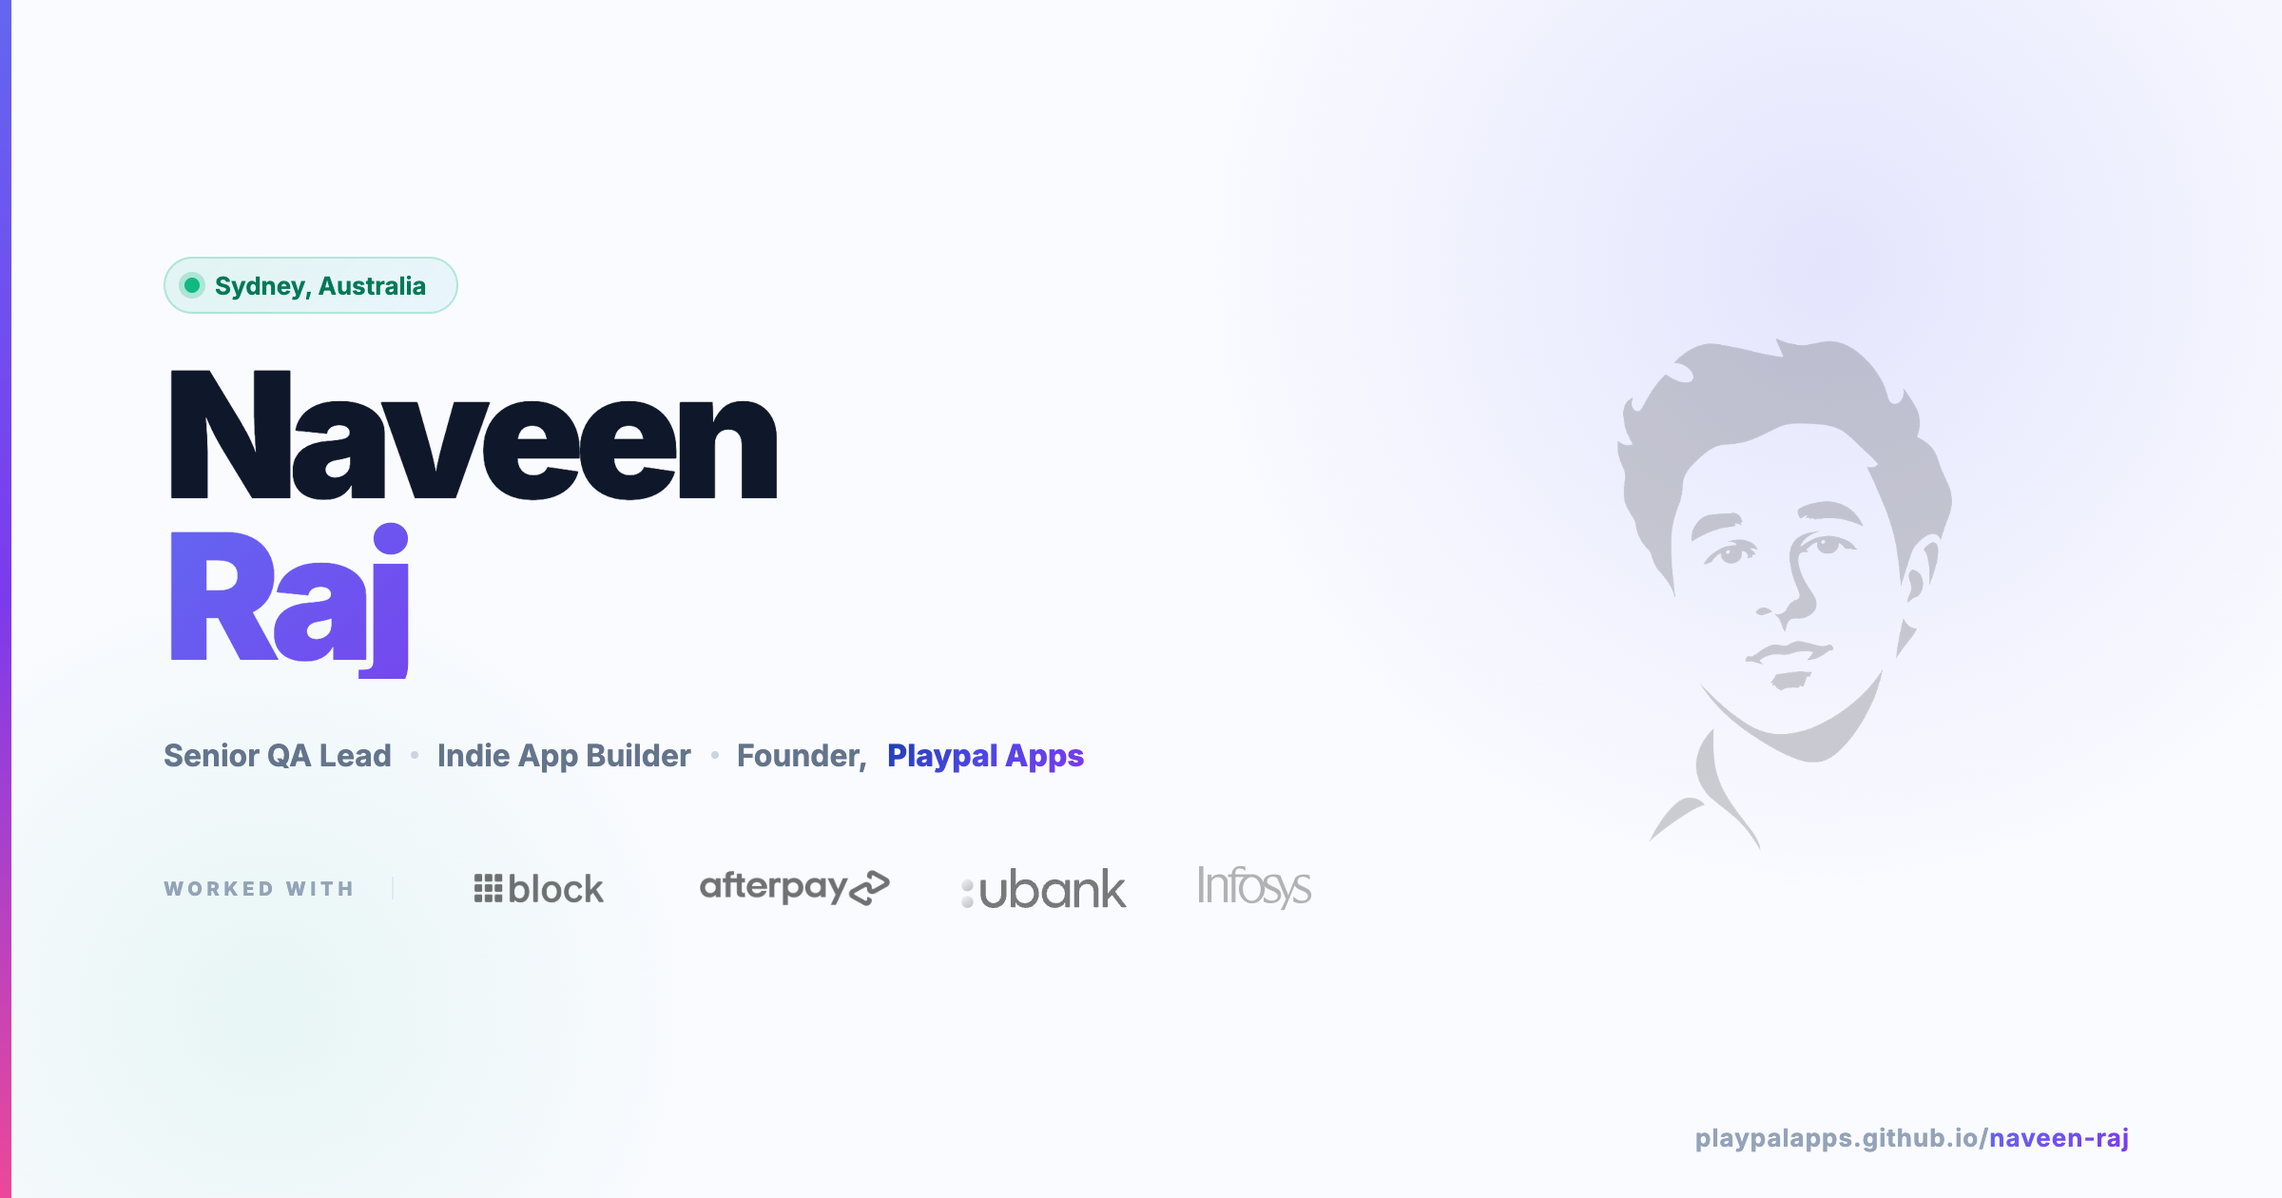
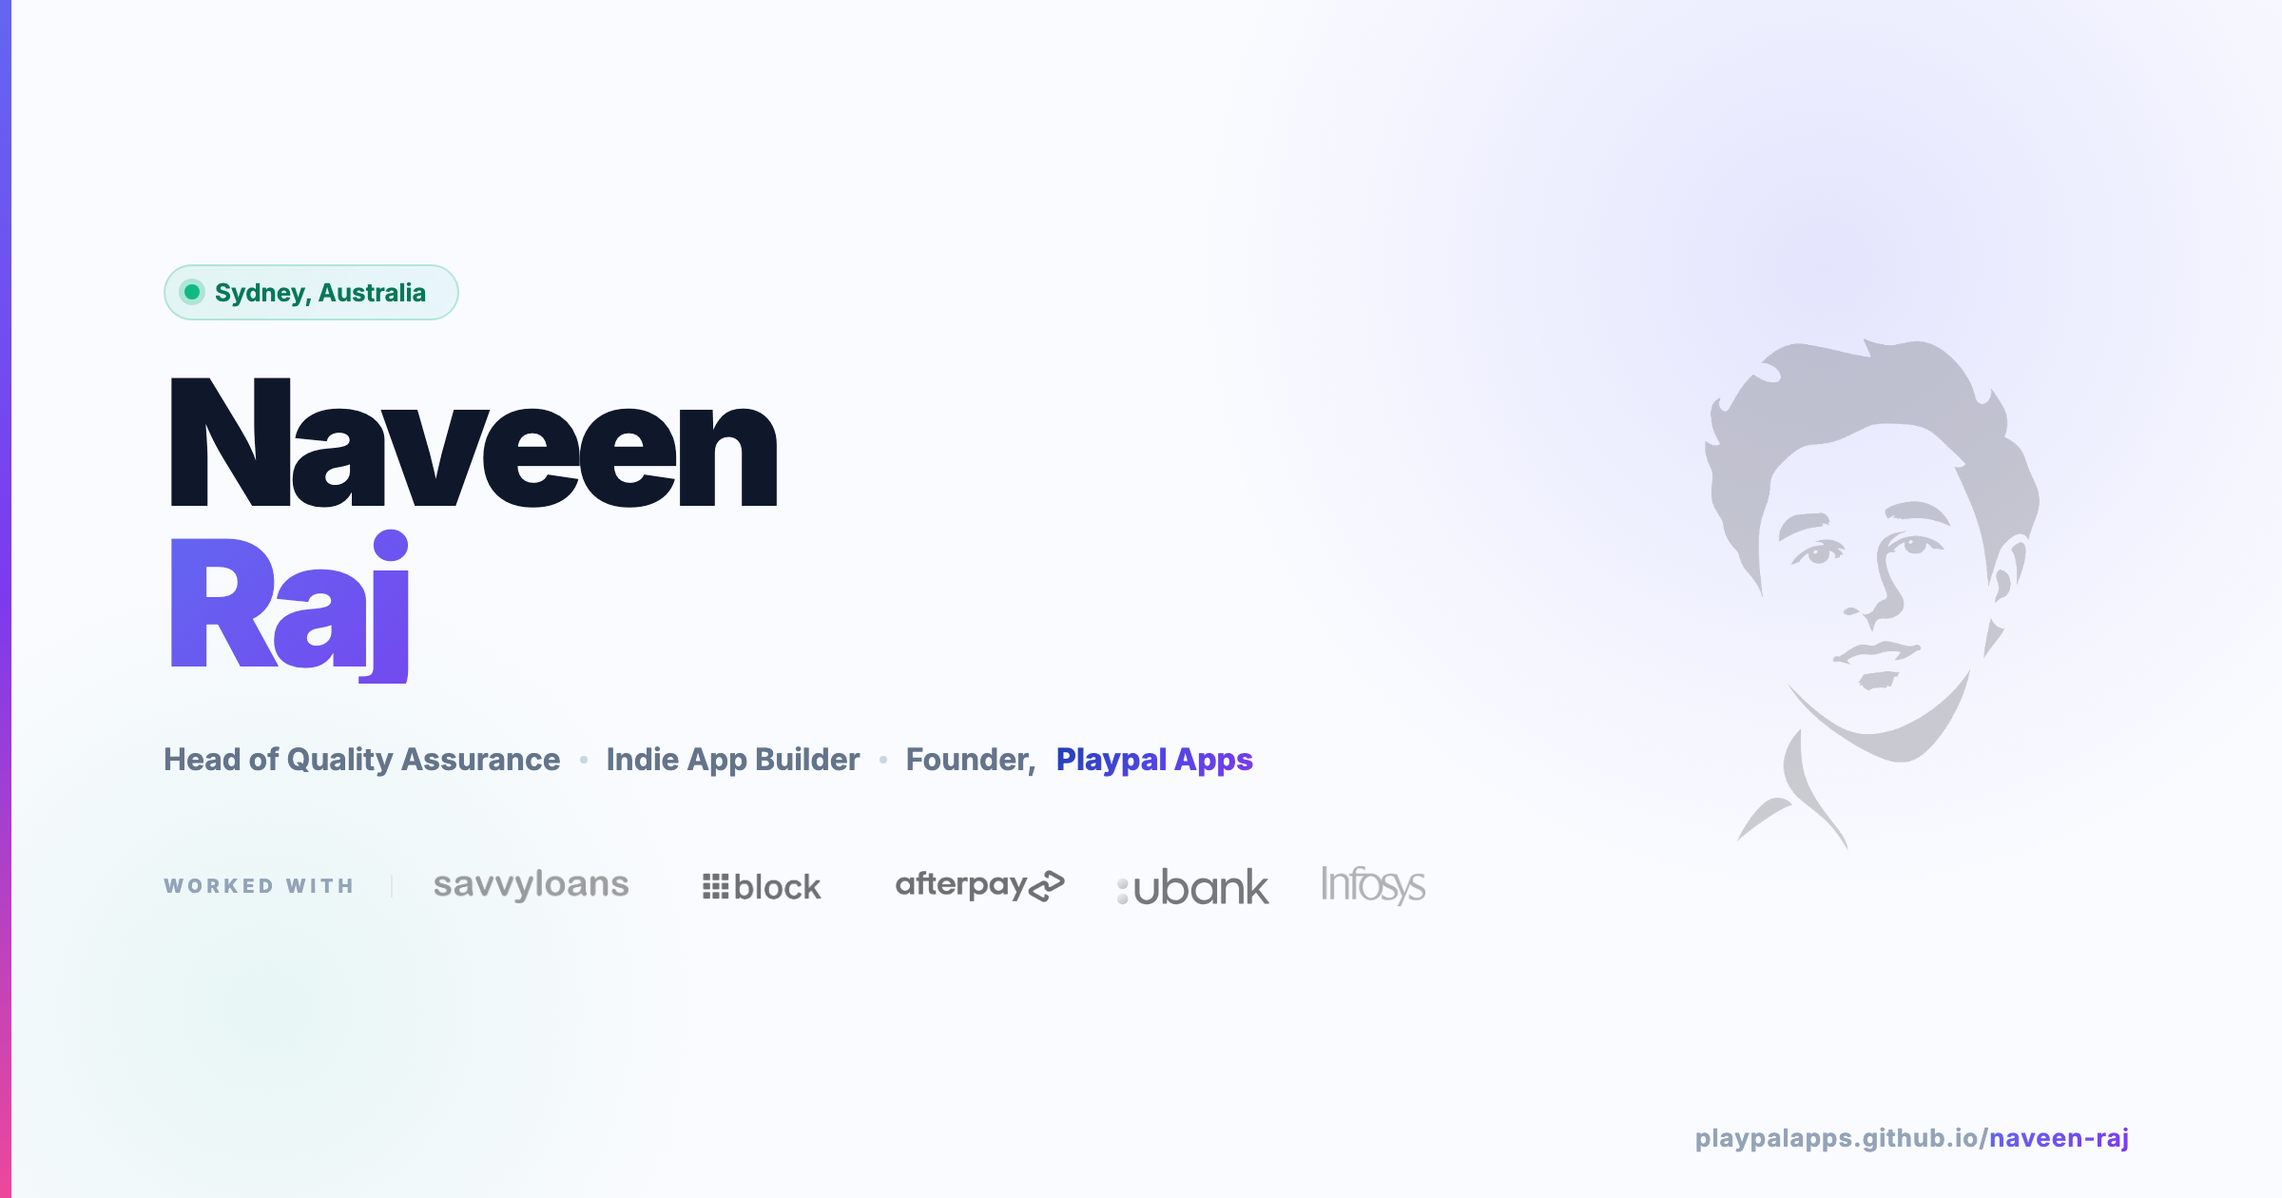
Homepage and Naveen Raj page: bring listings, counts and current role up to date
Homepage
- Section counts corrected to 15 apps and 12 games; a small script now sets
  them from the cards so they cannot drift again
- Icon panel gains Nota, DailyStreak, Gramam and Bloom Blocks; the same script
  appends any card icon the panel is missing
- Builder card: Head of Quality Assurance, Savvy Loans added to Worked with
  (logo strip sized per logo so it fits five)
- Meta description no longer says every app is free

Naveen Raj page
- Nota and Gramam cards added (27, matching the homepage)
- Live count now 20+ apps and games; page title and About card use the
  current job title
- Share image regenerated with the current title and Savvy Loans logo

diff --git a/naveen-raj/index.html b/naveen-raj/index.html
@@ -3,24 +3,24 @@
 <head>
   <meta charset="UTF-8">
   <meta name="viewport" content="width=device-width, initial-scale=1.0">
-  <title>Naveen Raj — QA Lead & App Builder</title>
-  <meta name="description" content="Head of Quality Assurance at Savvy Loans & indie app builder. 10+ apps live on iOS & Android.">
+  <title>Naveen Raj — Head of QA & App Builder</title>
+  <meta name="description" content="Head of Quality Assurance at Savvy Loans & indie app builder. 20+ apps and games live on iOS & Android.">
 
   <!-- Open Graph / WhatsApp / iMessage / LinkedIn -->
   <meta property="og:type"        content="website">
   <meta property="og:url"         content="https://playpalapps.github.io/naveen-raj/">
-  <meta property="og:title"       content="Naveen Raj — QA Lead & App Builder">
-  <meta property="og:description" content="10+ years in fintech quality engineering. 10+ apps shipped to iOS & Android. Currently Head of QA at Savvy Loans.">
-  <meta property="og:image"        content="https://playpalapps.github.io/naveen-raj/og-image.jpg?v=2">
+  <meta property="og:title"       content="Naveen Raj — Head of QA & App Builder">
+  <meta property="og:description" content="10+ years in fintech quality engineering. 20+ apps and games shipped to iOS & Android. Currently Head of QA at Savvy Loans.">
+  <meta property="og:image"        content="https://playpalapps.github.io/naveen-raj/og-image.jpg?v=3">
   <meta property="og:image:type"   content="image/jpeg">
   <meta property="og:image:width"  content="1200">
   <meta property="og:image:height" content="630">
 
   <!-- Twitter / X -->
   <meta name="twitter:card"        content="summary_large_image">
-  <meta name="twitter:title"       content="Naveen Raj — QA Lead & App Builder">
-  <meta name="twitter:description" content="10+ years in fintech quality engineering. 10+ apps shipped to iOS & Android. Currently Head of QA at Savvy Loans.">
-  <meta name="twitter:image"       content="https://playpalapps.github.io/naveen-raj/og-image.jpg?v=2">
+  <meta name="twitter:title"       content="Naveen Raj — Head of QA & App Builder">
+  <meta name="twitter:description" content="10+ years in fintech quality engineering. 20+ apps and games shipped to iOS & Android. Currently Head of QA at Savvy Loans.">
+  <meta name="twitter:image"       content="https://playpalapps.github.io/naveen-raj/og-image.jpg?v=3">
   <link rel="preconnect" href="https://fonts.googleapis.com">
   <link href="https://fonts.googleapis.com/css2?family=Inter:wght@300;400;500;600;700;800;900&display=swap" rel="stylesheet">
   <style>
@@ -462,7 +462,7 @@
       <div class="about-card qa reveal" style="transition-delay:0.06s;">
         <div class="about-card-bg"></div>
         <div class="about-icon">🛡</div>
-        <h3>Senior QA Lead</h3>
+        <h3>Head of QA</h3>
         <p>Head of Quality Assurance at Savvy Loans, leading quality across the lending platform. Previously Lead Quality Engineer at Block (Cash App), owning end-to-end quality strategy for the Trust &amp; Risk domain.</p>
         <div class="tags">
           <span class="tag tag-indigo">Savvy Loans</span><span class="tag tag-indigo">Cash App</span><span class="tag tag-indigo">Afterpay</span><span class="tag tag-indigo">UBank</span><span class="tag tag-indigo">Infosys</span>
@@ -472,7 +472,7 @@
         <div class="about-card-bg"></div>
         <div class="about-icon">🚀</div>
         <h3>Indie App Builder</h3>
-        <p>Using AI tools — Cursor, Claude — to design, build, and ship iOS & Android apps completely solo. 10+ apps live across the App Store and Google Play spanning games, utilities, wellness, and productivity.</p>
+        <p>Using AI tools — Cursor, Claude — to design, build, and ship iOS & Android apps completely solo. 20+ apps and games live across the App Store and Google Play, spanning utilities, wellness, productivity, and play.</p>
         <div class="tags">
           <span class="tag tag-green">SwiftUI</span><span class="tag tag-green">Flutter</span><span class="tag tag-green">React</span><span class="tag tag-green">Unity</span><span class="tag tag-green">AI-Assisted</span>
         </div>
@@ -689,6 +689,22 @@
       <div class="app-card reveal" onclick="location.href='https://playpalapps.github.io/DailyStreak/'" style="transition-delay:0.94s;">
         <div class="app-head"><img class="app-icon-img" src="../icons/dailystreak.png" alt="DailyStreak"><div><div class="app-name">DailyStreak</div><div class="app-cat">App · Habit tracker</div></div></div>
         <p class="app-desc">A clean, private habit tracker built around streaks. One tap a day to check in, with a heatmap of your progress on every habit. No ads, no account.</p>
+        <div class="app-foot">
+          <span class="store-pill ios-only" aria-disabled="true"><svg viewBox="0 0 24 24"><path d="M18.71 19.5c-.83 1.24-1.71 2.45-3.05 2.47-1.34.03-1.77-.79-3.29-.79-1.53 0-2 .77-3.27.82-1.31.05-2.3-1.32-3.14-2.53C4.25 17 2.94 12.45 4.7 9.39c.87-1.52 2.43-2.48 4.12-2.51 1.28-.02 2.5.87 3.29.87.78 0 2.26-1.07 3.8-.91.65.03 2.47.26 3.64 1.98-.09.06-2.17 1.28-2.15 3.81.03 3.02 2.65 4.03 2.68 4.04-.03.07-.42 1.44-1.38 2.83M13 3.5c.73-.83 1.94-1.46 2.94-1.5.13 1.17-.34 2.35-1.04 3.19-.69.85-1.83 1.51-2.95 1.42-.15-1.15.41-2.35 1.05-3.11z"/></svg>App Store · soon</span>
+          <span class="store-pill ios-only" aria-disabled="true"><svg viewBox="0 0 24 24"><path d="M3.609 1.814L13.792 12 3.61 22.186a.996.996 0 0 1-.61-.92V2.734a1 1 0 0 1 .609-.92zm10.89 10.893l2.302 2.302-10.937 6.333 8.635-8.635zm3.199-3.199l2.302 1.33a1 1 0 0 1 0 1.724l-2.302 1.33-2.544-2.544 2.544-2.544zM5.864 2.658L16.8 8.99l-2.302 2.302-8.634-8.634z"/></svg>Google Play · soon</span>
+        </div>
+      </div>
+      <div class="app-card reveal" onclick="location.href='https://playpalapps.github.io/Nota/'" style="transition-delay:0.98s;">
+        <div class="app-head"><img class="app-icon-img" src="../icons/nota.png" alt="Nota"><div><div class="app-name">Nota</div><div class="app-cat">App · Notes</div></div></div>
+        <p class="app-desc">Notes, checklists and sketches that stay on your phone, with folders, tags, search, reminders and locked notes. No account, no cloud. Free, no ads.</p>
+        <div class="app-foot">
+          <span class="store-pill ios-only" aria-disabled="true"><svg viewBox="0 0 24 24"><path d="M18.71 19.5c-.83 1.24-1.71 2.45-3.05 2.47-1.34.03-1.77-.79-3.29-.79-1.53 0-2 .77-3.27.82-1.31.05-2.3-1.32-3.14-2.53C4.25 17 2.94 12.45 4.7 9.39c.87-1.52 2.43-2.48 4.12-2.51 1.28-.02 2.5.87 3.29.87.78 0 2.26-1.07 3.8-.91.65.03 2.47.26 3.64 1.98-.09.06-2.17 1.28-2.15 3.81.03 3.02 2.65 4.03 2.68 4.04-.03.07-.42 1.44-1.38 2.83M13 3.5c.73-.83 1.94-1.46 2.94-1.5.13 1.17-.34 2.35-1.04 3.19-.69.85-1.83 1.51-2.95 1.42-.15-1.15.41-2.35 1.05-3.11z"/></svg>App Store · soon</span>
+          <span class="store-pill ios-only" aria-disabled="true"><svg viewBox="0 0 24 24"><path d="M3.609 1.814L13.792 12 3.61 22.186a.996.996 0 0 1-.61-.92V2.734a1 1 0 0 1 .609-.92zm10.89 10.893l2.302 2.302-10.937 6.333 8.635-8.635zm3.199-3.199l2.302 1.33a1 1 0 0 1 0 1.724l-2.302 1.33-2.544-2.544 2.544-2.544zM5.864 2.658L16.8 8.99l-2.302 2.302-8.634-8.634z"/></svg>Google Play · soon</span>
+        </div>
+      </div>
+      <div class="app-card reveal" onclick="location.href='https://playpalapps.github.io/Gramam/'" style="transition-delay:1.02s;">
+        <div class="app-head"><img class="app-icon-img" src="../icons/gramam.png" alt="Gramam"><div><div class="app-name">Gramam</div><div class="app-cat">Game · Cozy life sim</div></div></div>
+        <p class="app-desc">A cozy life game set in a Kerala village between 1950 and 1980. You come home to the family tharavad, and the village keeps real time and the Malayalam calendar. No ads, no account, fully offline.</p>
         <div class="app-foot">
           <span class="store-pill ios-only" aria-disabled="true"><svg viewBox="0 0 24 24"><path d="M18.71 19.5c-.83 1.24-1.71 2.45-3.05 2.47-1.34.03-1.77-.79-3.29-.79-1.53 0-2 .77-3.27.82-1.31.05-2.3-1.32-3.14-2.53C4.25 17 2.94 12.45 4.7 9.39c.87-1.52 2.43-2.48 4.12-2.51 1.28-.02 2.5.87 3.29.87.78 0 2.26-1.07 3.8-.91.65.03 2.47.26 3.64 1.98-.09.06-2.17 1.28-2.15 3.81.03 3.02 2.65 4.03 2.68 4.04-.03.07-.42 1.44-1.38 2.83M13 3.5c.73-.83 1.94-1.46 2.94-1.5.13 1.17-.34 2.35-1.04 3.19-.69.85-1.83 1.51-2.95 1.42-.15-1.15.41-2.35 1.05-3.11z"/></svg>App Store · soon</span>
           <span class="store-pill ios-only" aria-disabled="true"><svg viewBox="0 0 24 24"><path d="M3.609 1.814L13.792 12 3.61 22.186a.996.996 0 0 1-.61-.92V2.734a1 1 0 0 1 .609-.92zm10.89 10.893l2.302 2.302-10.937 6.333 8.635-8.635zm3.199-3.199l2.302 1.33a1 1 0 0 1 0 1.724l-2.302 1.33-2.544-2.544 2.544-2.544zM5.864 2.658L16.8 8.99l-2.302 2.302-8.634-8.634z"/></svg>Google Play · soon</span>

diff --git a/index.html b/index.html
@@ -4,7 +4,7 @@
   <meta charset="UTF-8">
   <meta name="viewport" content="width=device-width, initial-scale=1.0">
   <title>Playpal Apps — Apps you'll actually love</title>
-  <meta name="description" content="Beautifully crafted mobile apps and games for play, work, and rest. Built solo with AI, polished by hand. Free on iOS and Android.">
+  <meta name="description" content="Beautifully crafted mobile apps and games for play, work, and rest. Built solo with AI, polished by hand. Live on the App Store and Google Play.">
 
   <!-- Open Graph -->
   <meta property="og:type"         content="website">
@@ -669,21 +669,23 @@
       text-transform: uppercase; color: rgba(255,255,255,0.4);
     }
     .bww-logos {
-      display: grid; grid-template-columns: repeat(4, 1fr);
-      gap: 16px; align-items: center; justify-items: center;
+      display: flex; flex-wrap: wrap; align-items: center;
+      gap: 12px 26px;
     }
     .bww-logos img {
-      max-height: 26px; max-width: 100%; width: auto;
+      height: 26px; width: auto; max-width: 100%;
       object-fit: contain;
       /* invert dark logos to white silhouettes — uniform on dark */
       filter: brightness(0) invert(1);
       opacity: 0.7;
       transition: opacity 0.25s;
     }
-    .bww-logos img:nth-child(1) { max-height: 28px; }   /* Block */
-    .bww-logos img:nth-child(2) { max-height: 32px; }   /* Afterpay */
-    .bww-logos img:nth-child(3) { max-height: 18px; }   /* UBank */
-    .bww-logos img:nth-child(4) { max-height: 18px; }   /* Infosys */
+    /* Sized per logo (by alt, so the order can change): wordmarks sit lower, padded marks need more height */
+    .bww-logos img[alt="Savvy Loans"] { height: 17px; }
+    .bww-logos img[alt="Block"]       { height: 28px; }
+    .bww-logos img[alt="Afterpay"]    { height: 32px; }
+    .bww-logos img[alt="UBank"]       { height: 18px; }
+    .bww-logos img[alt="Infosys"]     { height: 18px; }
     .bww-logos img:hover { opacity: 1; }
     .builder-stats { display: flex; gap: 20px; margin-top: 22px; }
     .builder-stat-num { font-size: 1.6rem; font-weight: 900; letter-spacing: -1.2px; background: linear-gradient(135deg, var(--c2), var(--c1)); -webkit-background-clip: text; -webkit-text-fill-color: transparent; background-clip: text; }
@@ -869,7 +871,7 @@
     </div>
 
     <!-- ── APPS ─────────────────────────────────────────────── -->
-    <div class="section-eyebrow reveal">Apps <span class="count">· 14</span></div>
+    <div class="section-eyebrow reveal">Apps <span class="count">· 15</span></div>
 
     <div class="apps-bento">
 
@@ -1103,7 +1105,7 @@
     </div>
 
     <!-- ── GAMES ──────────────────────────────────────────────── -->
-    <div class="section-eyebrow reveal" id="games">Games <span class="count">· 11</span></div>
+    <div class="section-eyebrow reveal" id="games">Games <span class="count">· 12</span></div>
 
     <div class="apps-bento games-bento">
 
@@ -1329,6 +1331,10 @@
           <div class="cloud-icon"><img src="icons/fidgety.png" alt=""></div>
           <div class="cloud-icon"><img src="icons/tinywins.png" alt=""></div>
           <div class="cloud-icon"><img src="icons/colourwise.png" alt=""></div>
+          <div class="cloud-icon"><img src="icons/nota.png" alt=""></div>
+          <div class="cloud-icon"><img src="icons/dailystreak.png" alt=""></div>
+          <div class="cloud-icon"><img src="icons/gramam.png" alt=""></div>
+          <div class="cloud-icon"><img src="icons/bloomblocks.png" alt=""></div>
         </div>
       </div>
     </div>
@@ -1353,10 +1359,11 @@
     </div>
     <div class="builder-card reveal" style="transition-delay:.08s;">
       <div class="builder-name">Naveen Raj</div>
-      <div class="builder-role">Senior Quality Engineering Lead<br>Indie App Builder · Sydney<br>Founder, <b class="role-brand">Playpal Apps</b></div>
+      <div class="builder-role">Head of Quality Assurance<br>Indie App Builder · Sydney<br>Founder, <b class="role-brand">Playpal Apps</b></div>
       <div class="builder-worked-with">
         <span class="bww-label">Worked with</span>
         <div class="bww-logos">
+          <img src="assets/savvyloans.png" alt="Savvy Loans">
           <img src="assets/block.png" alt="Block">
           <img src="assets/afterpay.png" alt="Afterpay">
           <img src="assets/ubank.svg" alt="UBank">
@@ -1439,6 +1446,25 @@
     requestAnimationFrame(() => requestAnimationFrame(step));
   }
   initStrip(document.getElementById('stripTrack'), 0.6);
+
+  // Section counts and the story icon panel follow the cards, so adding a card is the only step
+  document.querySelectorAll('.section-eyebrow .count').forEach(el => {
+    const grid = el.parentElement.nextElementSibling;
+    if (grid) el.textContent = '· ' + grid.querySelectorAll('.app-card').length;
+  });
+  const cloud = document.querySelector('.icon-cloud');
+  if (cloud) {
+    const shown = new Set([...cloud.querySelectorAll('img')].map(i => i.getAttribute('src')));
+    document.querySelectorAll('.app-card .app-icon-mega').forEach(icon => {
+      const src = icon.getAttribute('src');
+      if (shown.has(src)) return;
+      shown.add(src);
+      const cell = document.createElement('div');
+      cell.className = 'cloud-icon';
+      cell.innerHTML = '<img src="' + src + '" alt="">';
+      cloud.appendChild(cell);
+    });
+  }
 </script>
 </body>
 </html>

diff --git a/naveen-raj/og-card.html b/naveen-raj/og-card.html
@@ -79,23 +79,25 @@
 
     /* Worked-with logos strip */
     .worked-with {
-      display: flex; align-items: center; gap: 28px;
+      display: flex; align-items: center; gap: 22px;
     }
     .ww-label {
       font-size: 10px; font-weight: 800; letter-spacing: 2.4px;
       text-transform: uppercase; color: #94A3B8;
       padding-right: 18px; border-right: 1px solid #E2E8F0;
+      white-space: nowrap; flex-shrink: 0;
     }
     .logo-row {
-      display: flex; align-items: center; gap: 36px;
+      display: flex; align-items: center; gap: 26px;
     }
     .logo-row img {
-      object-fit: contain; filter: grayscale(1); opacity: 0.55;
+      object-fit: contain; filter: grayscale(1); opacity: 0.55; flex-shrink: 0;
     }
-    .logo-row img:nth-child(1) { height: 44px; }   /* block */
-    .logo-row img:nth-child(2) { height: 56px; }   /* afterpay */
-    .logo-row img:nth-child(3) { height: 24px; }   /* ubank */
-    .logo-row img:nth-child(4) { height: 24px; }   /* infosys */
+    .logo-row img[alt="Savvy Loans"] { height: 18px; filter: grayscale(1) brightness(0.55); }   /* light brand colours: darken to match the others */
+    .logo-row img[alt="Block"]       { height: 40px; }
+    .logo-row img[alt="Afterpay"]    { height: 50px; }
+    .logo-row img[alt="UBank"]       { height: 22px; }
+    .logo-row img[alt="Infosys"]     { height: 22px; }
 
     /* Right — stylized portrait */
     .right { flex-shrink: 0; position: relative; width: 360px; height: 100%; display: flex; align-items: center; justify-content: center; }
@@ -124,10 +126,11 @@
     <div class="left">
       <div class="badge"><span class="badge-dot"></span> Sydney, Australia</div>
       <h1 class="name">Naveen<span class="grad">Raj</span></h1>
-      <p class="role">Senior QA Lead <span class="role-sep"></span> Indie App Builder <span class="role-sep"></span> Founder, <b>Playpal Apps</b></p>
+      <p class="role">Head of Quality Assurance <span class="role-sep"></span> Indie App Builder <span class="role-sep"></span> Founder, <b>Playpal Apps</b></p>
       <div class="worked-with">
         <span class="ww-label">Worked with</span>
         <div class="logo-row">
+          <img src="assets/savvyloans.png" alt="Savvy Loans">
           <img src="assets/block.png" alt="Block">
           <img src="assets/afterpay.png" alt="Afterpay">
           <img src="assets/ubank.svg" alt="UBank">
